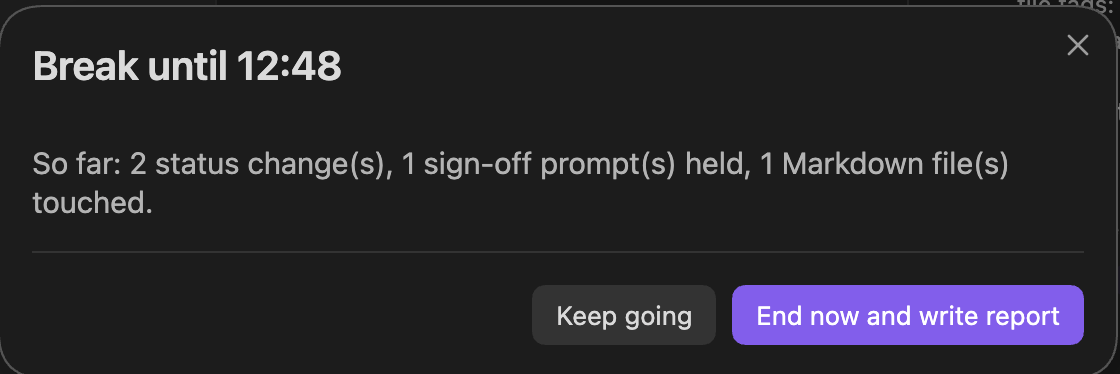
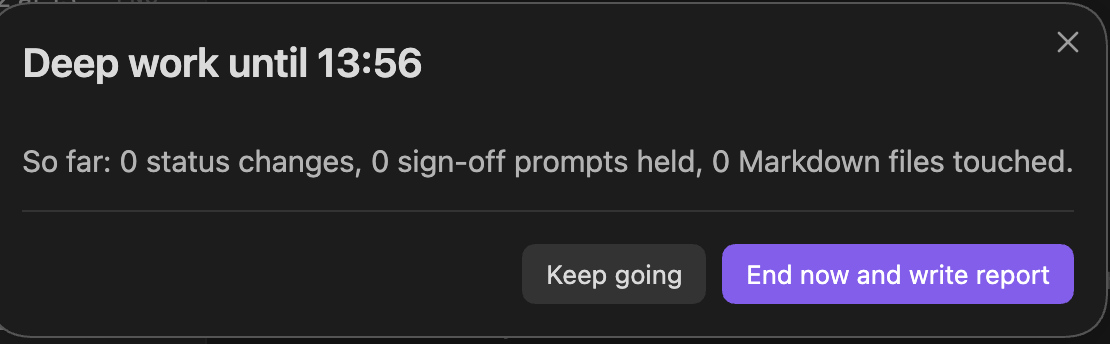
README screenshots: installed plugins at v0.2.0, end-slot window with the new wording

diff --git a/README.md b/README.md
@@ -79,7 +79,7 @@ Start a slot from the 🎧 status-bar item or the command palette, or schedule s
 
 <p>
   <img src="docs/screenshots/slot-start.png" alt="Start a break or deep-work slot: type, minutes, and 15m / 30m / 60m / 90m buttons" width="49%">
-  <img src="docs/screenshots/slot-end.png" alt="Ending a break early: counts so far, with Keep going and End now and write report" width="49%">
+  <img src="docs/screenshots/slot-end.png" alt="Ending a deep-work slot early: counts so far, with Keep going and End now and write report" width="49%">
 </p>
 
 ![A slot report block: moved to review with the worker, closed, other status changes, came due, and Markdown files touched, ending with the closed-while-Obsidian-was-shut caveat](docs/screenshots/slot-report.png)
@@ -132,7 +132,7 @@ Statuses and field names are read from TaskNotes' settings rather than hardcoded
 - **TaskNotes** installed and enabled (tested on 4.13.4)
 - Obsidian's Daily Notes settings (folder and date format) are used for the Rolled Over summary
 
-![Installed plugins: Sheiko Task Lifecycle v0.1.0 alongside TaskNotes 4.13.4 and Tasks](docs/screenshots/installed-plugins.png)
+![Installed plugins: Sheiko Task Lifecycle v0.2.0 by Sheikh M Sahil, enabled](docs/screenshots/installed-plugins.png)
 
 ## Compatibility
 
